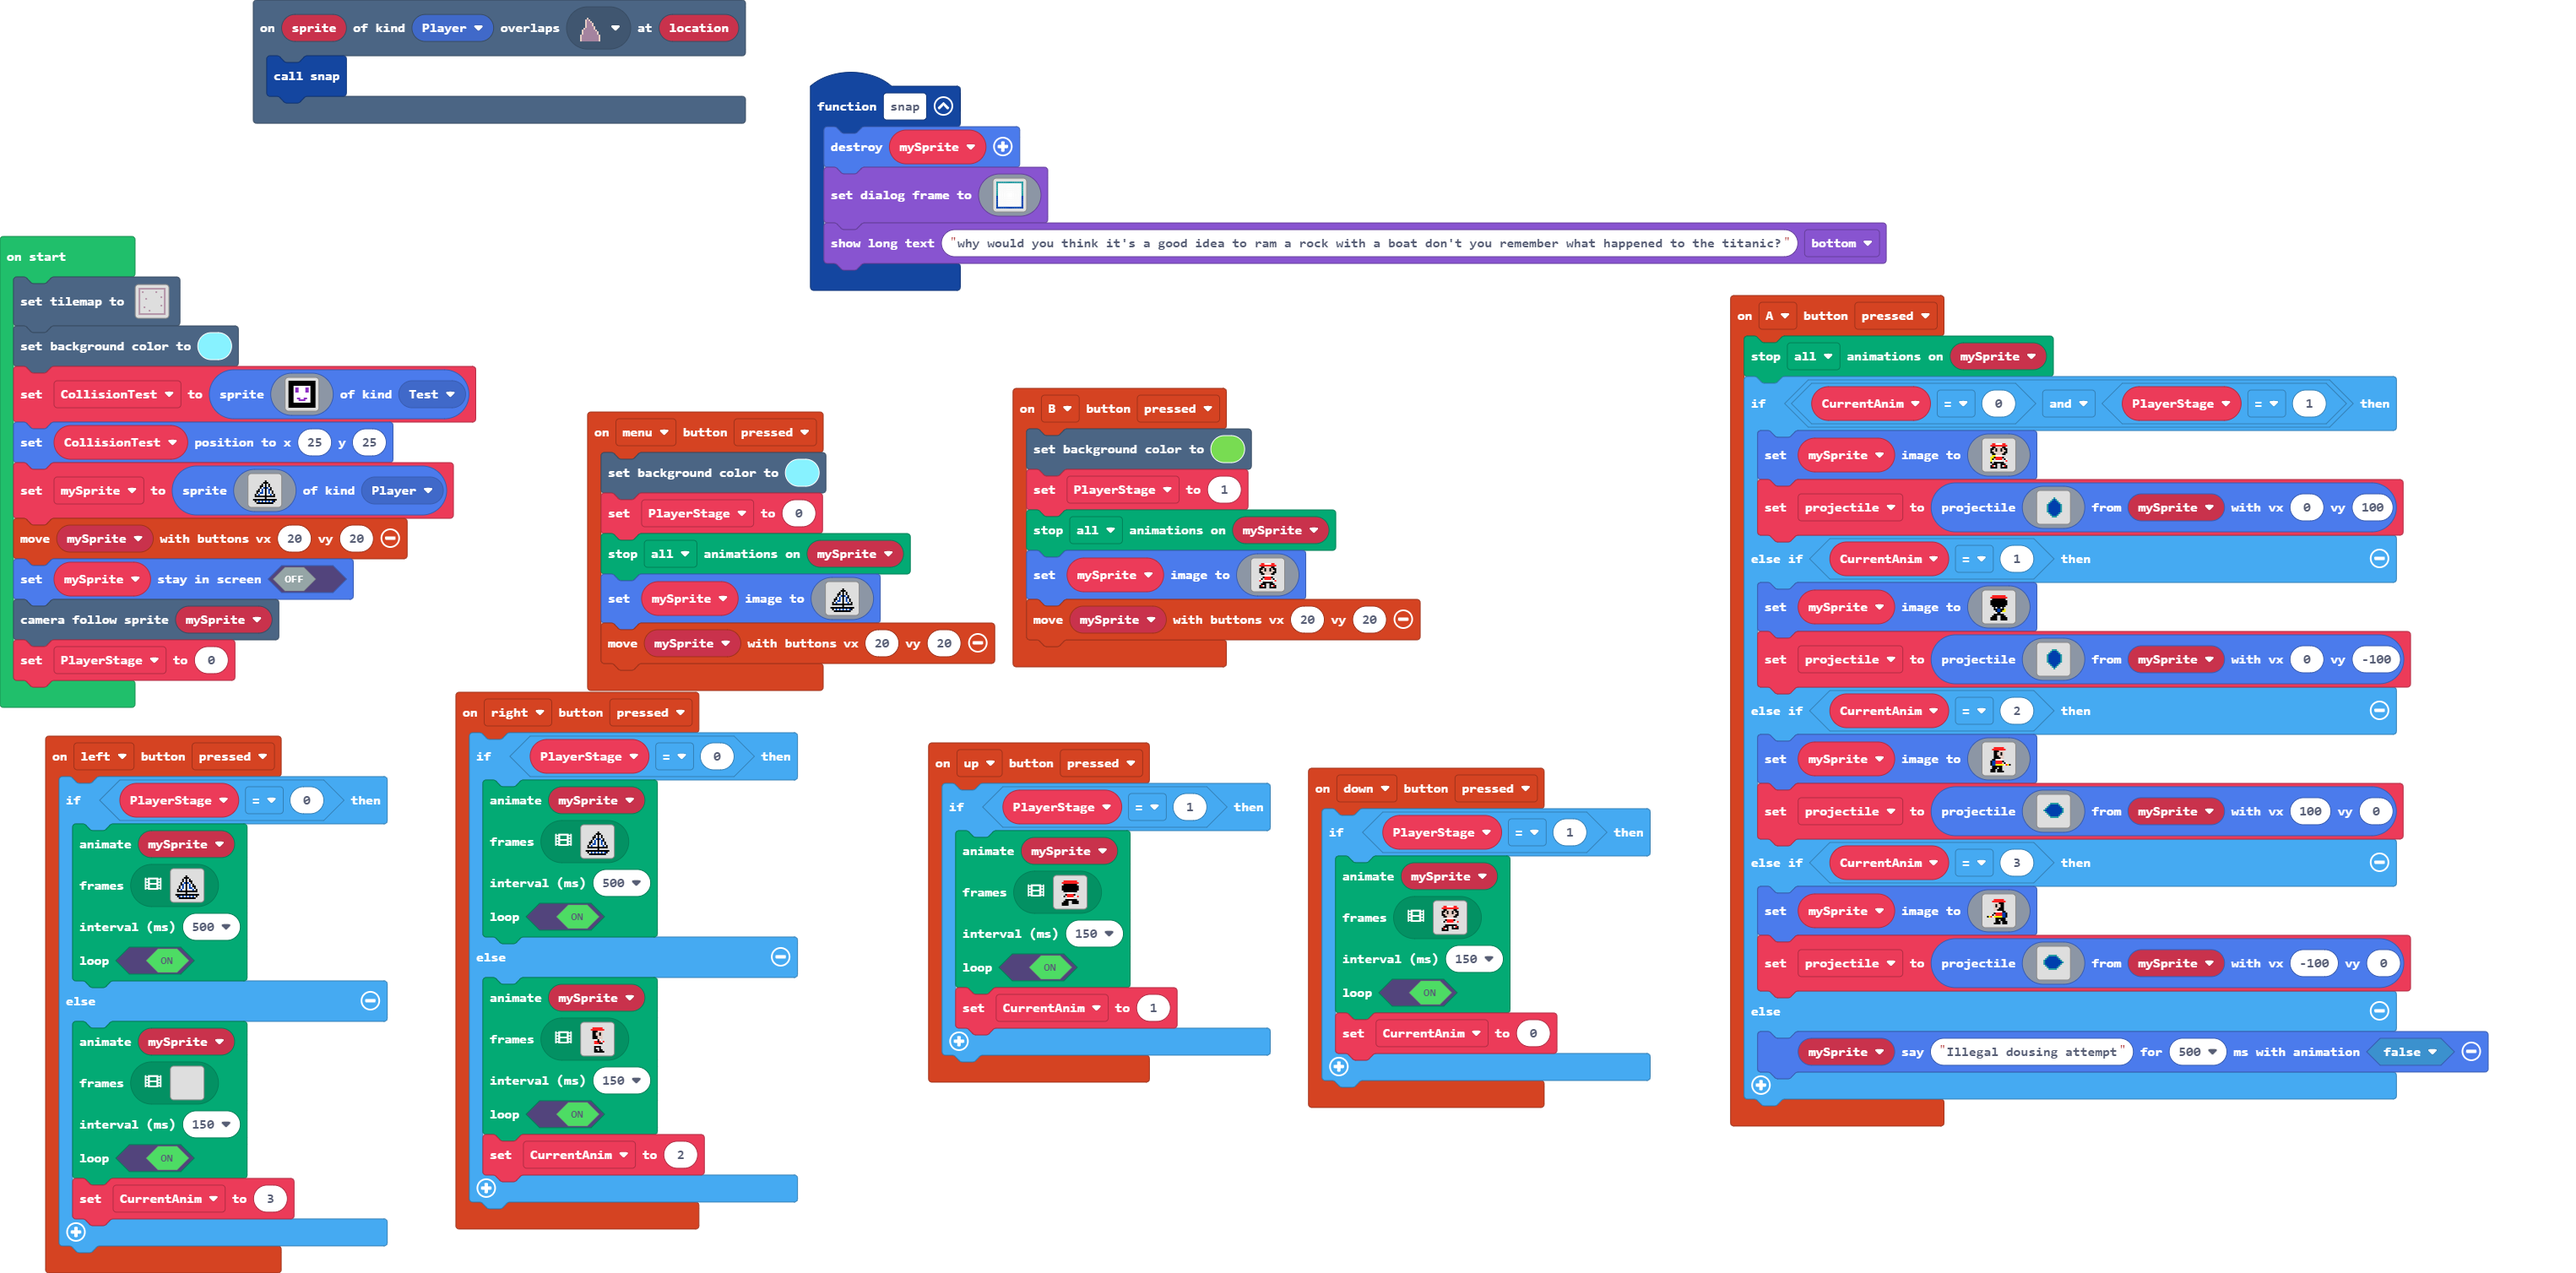
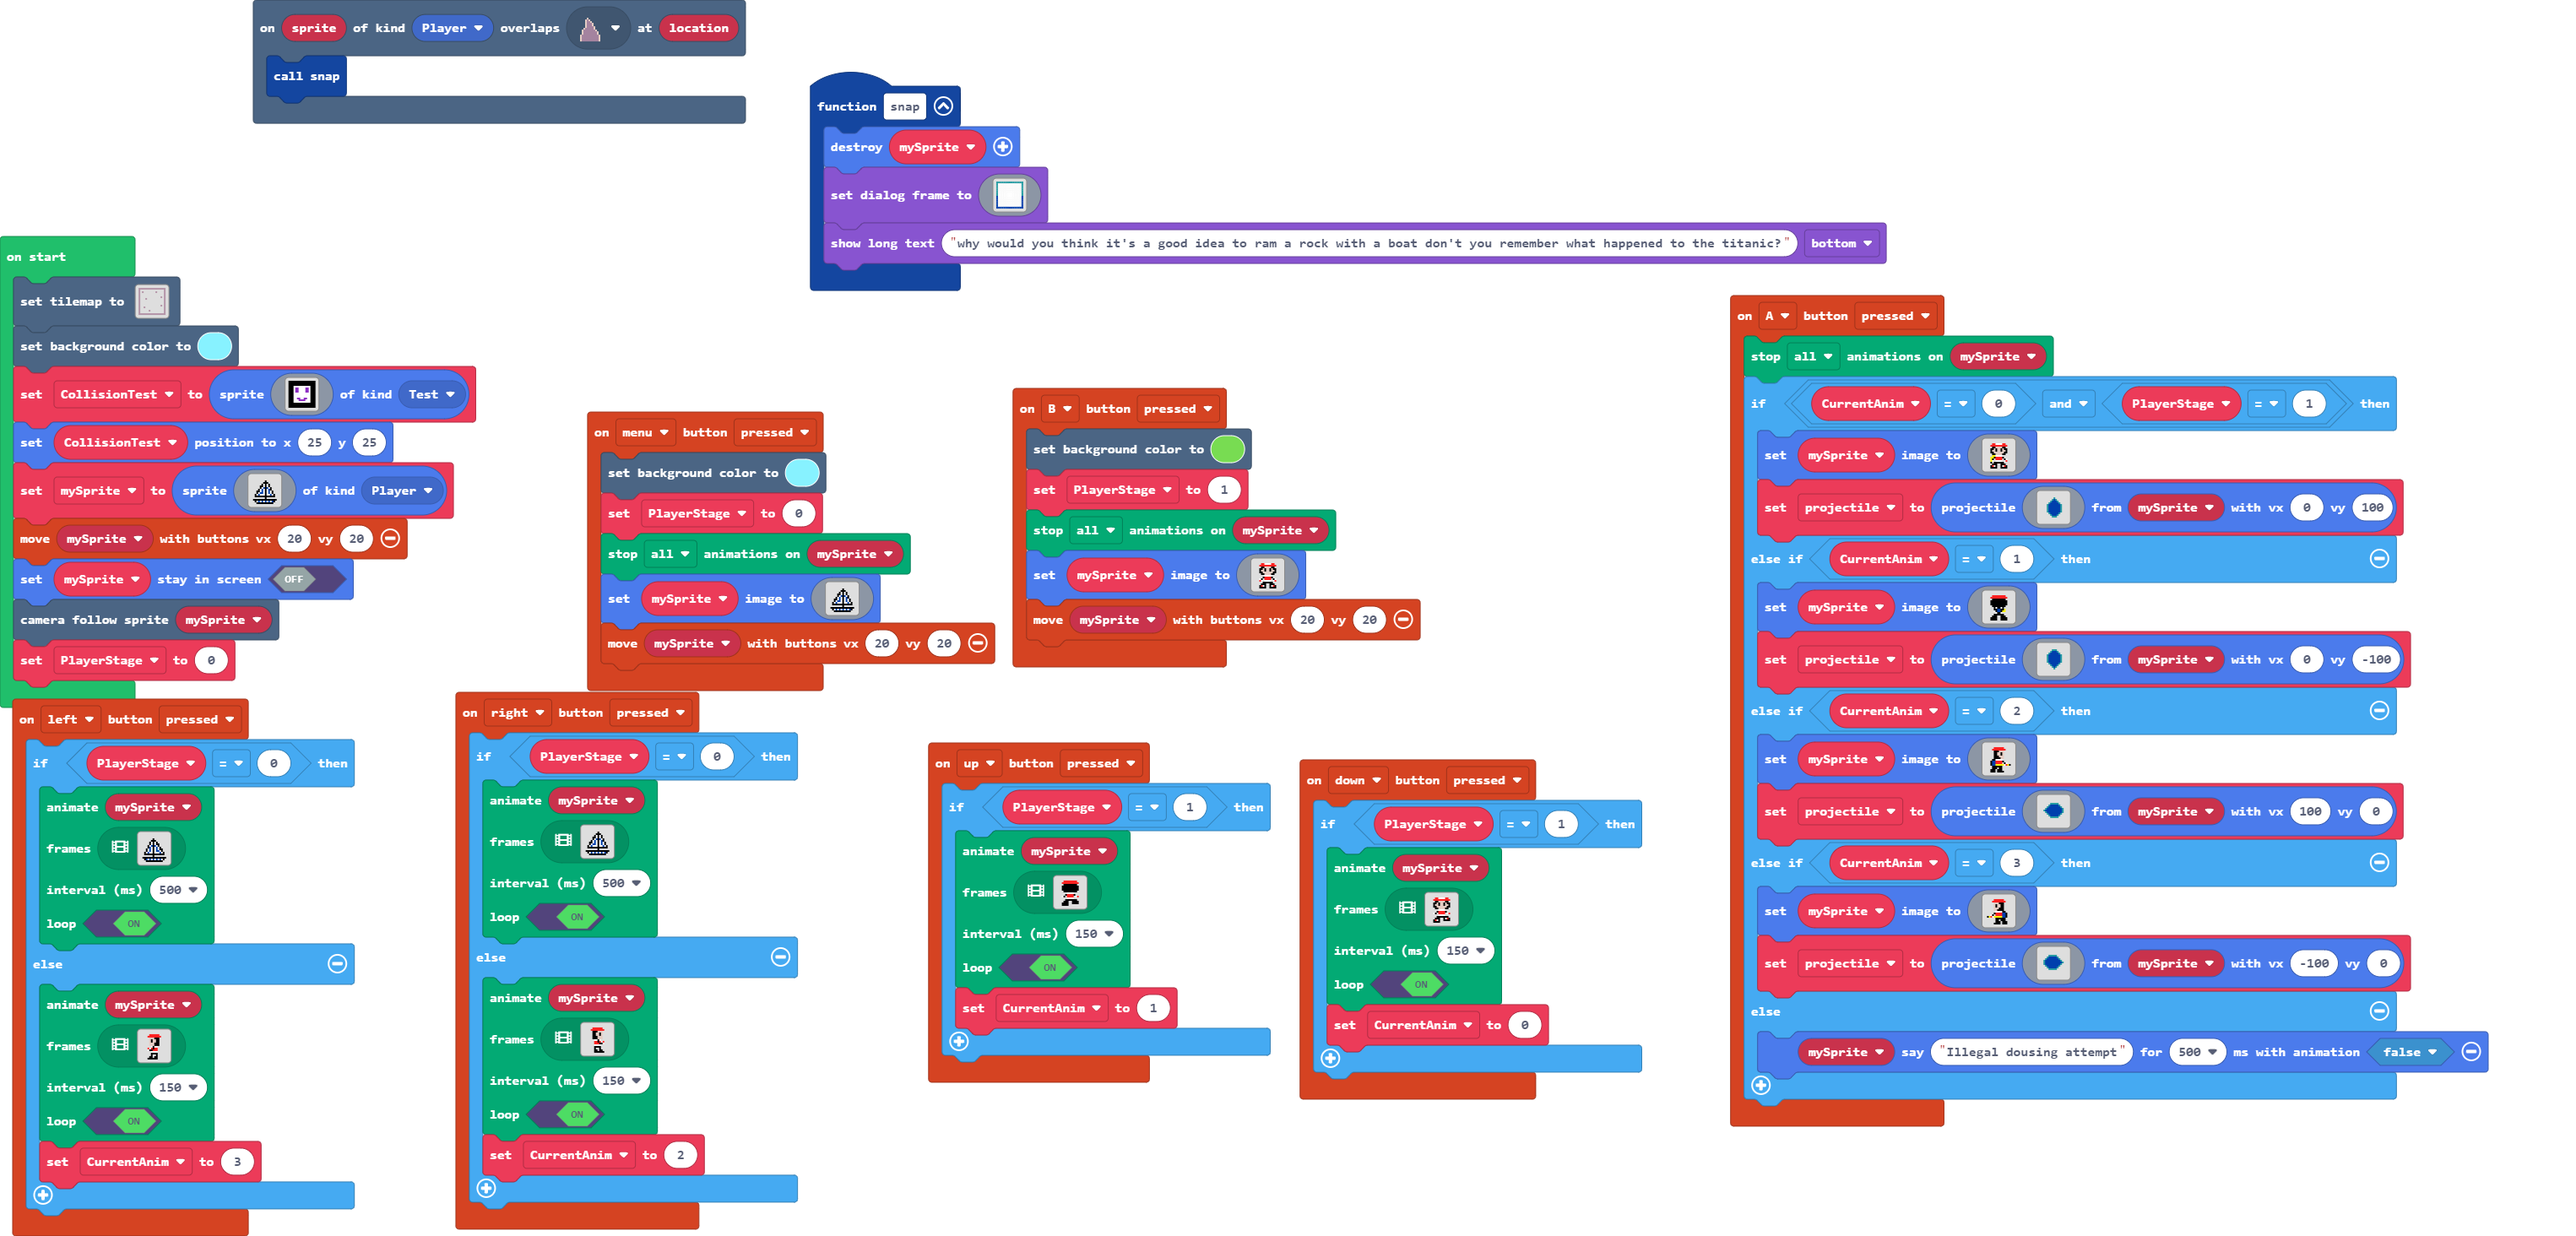
Restore '15-12-2021 10:45:08 quick update to two images (Don't use anything that says old)'

Changed region(s): [[0.3114, 0.0615, 0.9653, 0.9221], [0.0, 0.1844, 0.5605, 1.0], [0.0934, 0.0307, 0.2802, 0.123]]

diff --git a/main.ts b/main.ts
@@ -48,24 +48,7 @@ controller.left.onEvent(ControllerButtonEvent.Pressed, function () {
     } else {
         animation.runImageAnimation(
         mySprite,
-        [img`
-            . . . . . . . . . . . . . . . . 
-            . . . . . . . . . . . . . . . . 
-            . . . . . . . . . . . . . . . . 
-            . . . . . . . . . . . . . . . . 
-            . . . . . . . . . . . . . . . . 
-            . . . . . . . . . . . . . . . . 
-            . . . . . . . . . . . . . . . . 
-            . . . . . . . . . . . . . . . . 
-            . . . . . . . . . . . . . . . . 
-            . . . . . . . . . . . . . . . . 
-            . . . . . . . . . . . . . . . . 
-            . . . . . . . . . . . . . . . . 
-            . . . . . . . . . . . . . . . . 
-            . . . . . . . . . . . . . . . . 
-            . . . . . . . . . . . . . . . . 
-            . . . . . . . . . . . . . . . . 
-            `],
+        assets.animation`FireFighterLeftAnim0`,
         150,
         true
         )
